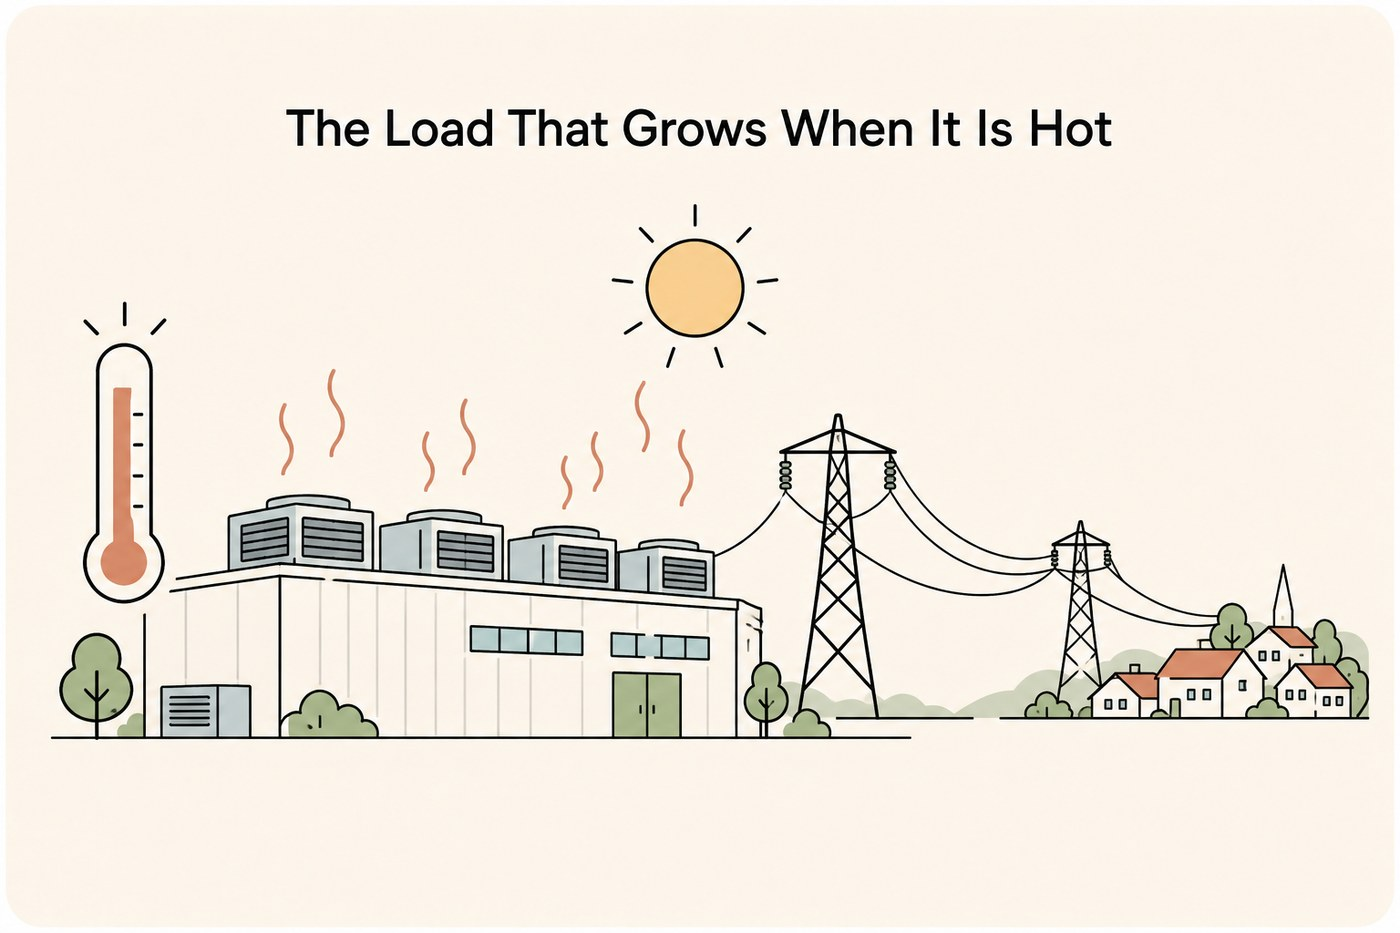
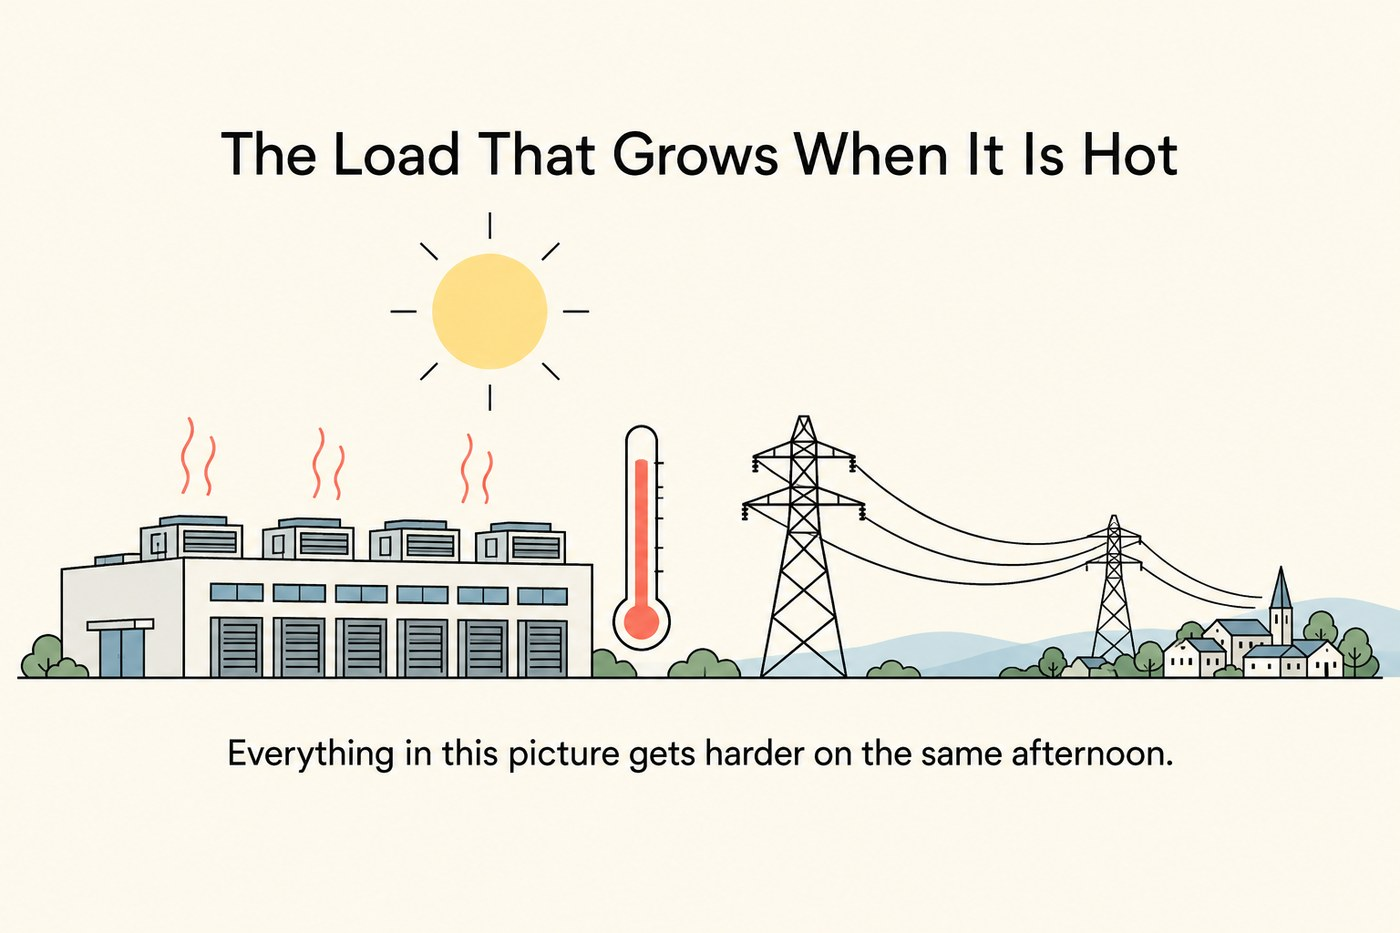
Updated Load hero and two more in-body figures
Swaps the Load hero at the same filename for a cleaner Register A
composition (sun, thermometer, data centre with rooftop cooling and
heat lines, transmission tower and distant town on the same
horizon). Home Latest Insights card, /articles thumbnail and OG card
all pick it up on the next cache-bust hash.

The stacked area chart of a data centre's load, split (cobalt
computing load flat, coral cooling load growing across mild-to-hot,
yellow national-system-peak-demand line rising in the same direction,
with the bracket 'these arrive on the same afternoon') lands inside
'Baseload is the wrong word' after the sentence about the system
peak. The two-panel seeing-through-cloud diagram (left, satellite
with optical rays stopped at the cloud and blank ground; right,
the same satellite with optical and radar together and the landscape
below rendered in full detail) lands inside 'Which is why the imaging
side matters' on Survey.

Claude-Session: https://claude.ai/code/session_01UTkcwmfvBCDVuALj2XrD2r

diff --git a/insight-load-that-grows-when-hot.html b/insight-load-that-grows-when-hot.html
@@ -106,7 +106,7 @@
       
       <p class="article-meta"><span class="article-date">8 September 2026</span> · <span class="article-reading-time">5 min read</span></p>
 <figure>
-<img src="/assets/img/insight-load-that-grows-when-hot-hero.jpg?v=388a631e" alt="Line-art scene: a long low data centre building with rooftop cooling units, drawn beneath a high sun with heat lines rising; a thermometer stands beside the building with its column high, and a transmission tower behind it carries lines that sag visibly in the heat towards a distant town." class="diagram">
+<img src="/assets/img/insight-load-that-grows-when-hot-hero.jpg?v=db523a9d" alt="Line-art scene: a long low data centre building with rooftop cooling units, drawn beneath a high sun with heat lines rising; a thermometer stands beside the building with its column high, and a transmission tower behind it carries lines that sag visibly in the heat towards a distant town." class="diagram">
 <figcaption>Everything in this picture gets harder on the same afternoon.</figcaption>
 </figure>
 <h2>Data centres are planned as flat demand, and Malaysia has just shown they are not</h2>
@@ -119,6 +119,9 @@
 <p>Cooling energy depends on the difference between the temperature the equipment needs and the temperature outside. As ambient temperature rises, the same servers require more work to cool, chiller efficiency falls, and consumption climbs. In a tropical climate, the gap between a mild week and a hot one is large, and Malaysia has just quantified it: a jump from roughly 7 per cent to 9.3 per cent of national consumption is more than a third of additional load appearing on the same equipment doing the same computing.</p>
 <p>So the correct description is a flat base with a weather-dependent addition on top, and the addition arrives on hot days.</p>
 <p><strong>Which is the same day the rest of the system peaks.</strong></p>
+<figure>
+<img src="/assets/img/insight-load-that-grows-when-hot-load-split.jpg?v=60c59fb0" alt="Stacked area chart, 'A data centre's load, split'. Horizontal axis from 'mild week' to 'hot week'. Lower band in cobalt, perfectly flat across the whole width, labelled inside 'computing load'. Upper band in coral, thin at the left and growing substantially towards the right, labelled inside 'cooling load'. Above the chart, a yellow line rising in the same direction labelled 'national system peak demand'. A bracket at the right spanning both rising elements labelled 'these arrive on the same afternoon'. Footnote: Schematic. Transitions Lab, 2026." class="diagram">
+</figure>
 <p>Residential and commercial air conditioning across the country is doing exactly the same thing for exactly the same reason. Data centre cooling demand is therefore positively correlated with system peak demand, and a load that is correlated with peak is the most expensive kind of load a system can acquire.</p>
 <p>The distinction is not academic. A perfectly flat load lets a utility spread fixed costs over more hours without new peak capacity. A peak-correlated load requires new peak capacity, which is the most capital-intensive thing a power system buys and the least utilised. Two customers taking the same annual energy can impose entirely different capacity costs, and the tariff structures used to attract data centre investment across the region generally do not distinguish between them.</p>
 <hr>

diff --git a/insight-survey-first-act-of-the-mine.html b/insight-survey-first-act-of-the-mine.html
@@ -144,6 +144,9 @@
 <h2>Which is why the imaging side matters</h2>
 <p>The cost of knowing what is on and under a piece of ground has been falling for two decades and is about to fall further.</p>
 <p>Synthetic aperture radar sees through cloud and at night. Optical imaging sees material and vegetation detail that radar cannot. Fusing them removes the constraint that has limited Earth observation in exactly the regions where minerals, forests and agriculture matter most, and where cloud cover has meant the tropics are the least-observed part of the planet.</p>
+<figure>
+<img src="/assets/img/insight-survey-first-act-of-the-mine-cloud.jpg?v=b7e71c10" alt="Two panels separated by a hairline vertical rule. Left panel labelled 'optical alone': a satellite above a thick band of cloud, with coral optical rays stopping at the cloud and the ground beneath rendered blank and featureless. Right panel labelled 'optical and radar together': the same satellite above the same cloud band, with sky-blue radar arcs passing through the cloud and coral optical rays; the ground beneath rendered in full detail with mountains, a river, a track and a small exploration camp." class="diagram">
+</figure>
 <p>That has two consequences pulling in opposite directions, and both are worth stating.</p>
 <p><strong>It democratises observation.</strong> A ministry, an NGO, an insurer or a farmer cooperative can buy imagery that was previously the preserve of states and majors. Independent verification of what is happening on a landscape becomes affordable, which changes the balance in every dispute where one party currently controls the evidence.</p>
 <p><strong>It erodes the exclusivity a databank depends on.</strong> Airborne geophysics still cannot be replaced from orbit, because magnetics and gravity require flying low. But the surface expression of a deposit, the alteration signatures, the drainage, the access roads and the activity of other people's exploration teams increasingly can be observed by anybody. A survey monopoly is a wasting asset in a world of cheap constellations.</p>

diff --git a/articles.html b/articles.html
@@ -171,7 +171,7 @@
       <p class="article-desc">Twenty-three of sixty designated projects may not reach a decision. They may not need more money. They may need less uncertainty.</p>
     </div>
   </div><div class="article-item has-thumb" data-category="energy" data-geography="asia" data-month="2026-09">
-    <a class="article-thumb-link" href="/insight-load-that-grows-when-hot"><img class="article-thumb" src="/assets/img/insight-load-that-grows-when-hot-hero.jpg?v=388a631e" alt="Line-art scene: a long low data centre building with rooftop cooling units beneath a high sun with heat lines rising; a thermometer stands beside the building with its column high, and a transmission tower behind carries sagging lines toward a distant town."></a>
+    <a class="article-thumb-link" href="/insight-load-that-grows-when-hot"><img class="article-thumb" src="/assets/img/insight-load-that-grows-when-hot-hero.jpg?v=db523a9d" alt="Line-art scene: a long low data centre building with rooftop cooling units beneath a high sun with heat lines rising; a thermometer stands beside the building with its column high, and a transmission tower behind carries sagging lines toward a distant town."></a>
     <div class="article-body">
       <a class="article-title" href="/insight-load-that-grows-when-hot">The Load That Grows When It Is Hot</a>
       <div class="article-meta">8 September 2026</div>

diff --git a/index.html b/index.html
@@ -254,7 +254,7 @@
       </a>
       <a class="insight-card has-photo" href="/insight-load-that-grows-when-hot">
         <div class="card-photo">
-          <img src="/assets/img/insight-load-that-grows-when-hot-hero.jpg?v=388a631e" alt="Line-art scene: a long low data centre building with rooftop cooling units beneath a high sun with heat lines rising; a thermometer stands beside the building with its column high, and a transmission tower behind carries sagging lines toward a distant town.">
+          <img src="/assets/img/insight-load-that-grows-when-hot-hero.jpg?v=db523a9d" alt="Line-art scene: a long low data centre building with rooftop cooling units beneath a high sun with heat lines rising; a thermometer stands beside the building with its column high, and a transmission tower behind carries sagging lines toward a distant town.">
           <span class="kicker">Insight &middot; Energy Systems</span>
         </div>
         <div class="body">

diff --git a/content/insight-load-that-grows-when-hot.md b/content/insight-load-that-grows-when-hot.md
@@ -32,6 +32,10 @@ So the correct description is a flat base with a weather-dependent addition on t
 
 **Which is the same day the rest of the system peaks.**
 
+<figure>
+<img src="/assets/img/insight-load-that-grows-when-hot-load-split.jpg" alt="Stacked area chart, 'A data centre's load, split'. Horizontal axis from 'mild week' to 'hot week'. Lower band in cobalt, perfectly flat across the whole width, labelled inside 'computing load'. Upper band in coral, thin at the left and growing substantially towards the right, labelled inside 'cooling load'. Above the chart, a yellow line rising in the same direction labelled 'national system peak demand'. A bracket at the right spanning both rising elements labelled 'these arrive on the same afternoon'. Footnote: Schematic. Transitions Lab, 2026." class="diagram">
+</figure>
+
 Residential and commercial air conditioning across the country is doing exactly the same thing for exactly the same reason. Data centre cooling demand is therefore positively correlated with system peak demand, and a load that is correlated with peak is the most expensive kind of load a system can acquire.
 
 The distinction is not academic. A perfectly flat load lets a utility spread fixed costs over more hours without new peak capacity. A peak-correlated load requires new peak capacity, which is the most capital-intensive thing a power system buys and the least utilised. Two customers taking the same annual energy can impose entirely different capacity costs, and the tariff structures used to attract data centre investment across the region generally do not distinguish between them.

diff --git a/content/insight-survey-first-act-of-the-mine.md b/content/insight-survey-first-act-of-the-mine.md
@@ -72,6 +72,10 @@ The cost of knowing what is on and under a piece of ground has been falling for 
 
 Synthetic aperture radar sees through cloud and at night. Optical imaging sees material and vegetation detail that radar cannot. Fusing them removes the constraint that has limited Earth observation in exactly the regions where minerals, forests and agriculture matter most, and where cloud cover has meant the tropics are the least-observed part of the planet.
 
+<figure>
+<img src="/assets/img/insight-survey-first-act-of-the-mine-cloud.jpg" alt="Two panels separated by a hairline vertical rule. Left panel labelled 'optical alone': a satellite above a thick band of cloud, with coral optical rays stopping at the cloud and the ground beneath rendered blank and featureless. Right panel labelled 'optical and radar together': the same satellite above the same cloud band, with sky-blue radar arcs passing through the cloud and coral optical rays; the ground beneath rendered in full detail with mountains, a river, a track and a small exploration camp." class="diagram">
+</figure>
+
 That has two consequences pulling in opposite directions, and both are worth stating.
 
 **It democratises observation.** A ministry, an NGO, an insurer or a farmer cooperative can buy imagery that was previously the preserve of states and majors. Independent verification of what is happening on a landscape becomes affordable, which changes the balance in every dispute where one party currently controls the evidence.
